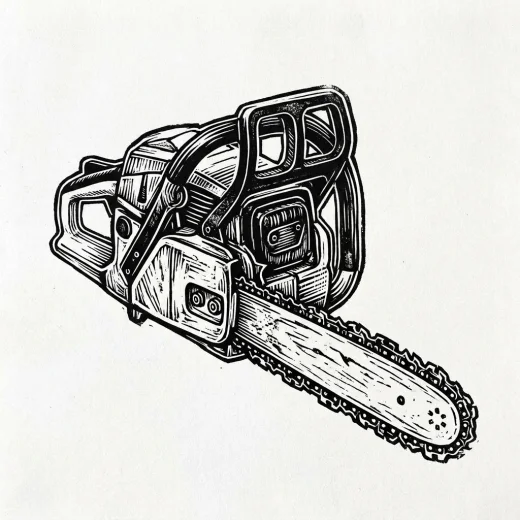
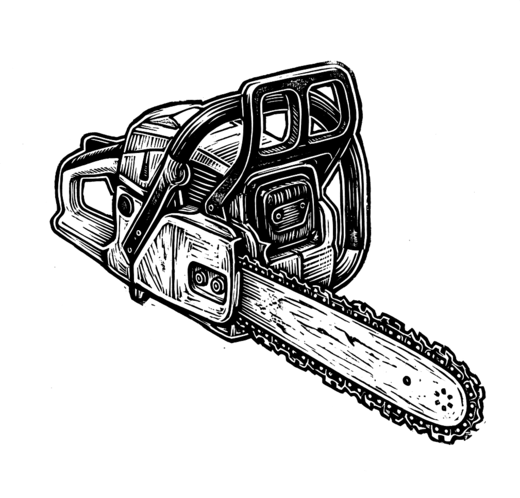
Draft Saw #17: transparent chainsaw that inverts in dark mode; The sed-rs saw

Changed region(s): [[0.0923, 0.1205, 0.9538, 0.9036], [0.9231, 0.994, 0.9538, 1.0]]

diff --git a/_drafts/saw-sed-rs-xtl-blender.md b/_drafts/saw-sed-rs-xtl-blender.md
@@ -33,9 +33,10 @@ repo_urls:
      5100; WIP), console-3D (fb79c47: IBM 1053, 2741, 5471 on shared Selectric helpers; TRS-80 to be added, per Mike). Mike's plan: four APLs in sw-apl, ca. '68 1130 APL with a 1053 console, a 2741 console for the '68 APL\360 demo,
      a 5100 for the '75 5100 demo, and a TRS-80 / IBM 5471 for a future APL-80 demo. Date: today is Sunday 11/01; -0800 since
      12:00 is after the 2 a.m. change (the publish script restamps 00:15 with the right offset). Lead image: Mike's
-     block-3d-chainsaw.jpg (Dropbox), monochrome, no-invert. -->
+     block-3d-chainsaw.jpg (Dropbox), paper made transparent, inverts
+     in dark mode (Mike asked, 2026-11-01). -->
 
-<img src="{{ '/assets/images/posts/block-3d-chainsaw.webp' | relative_url }}" class="post-marker no-invert" alt="" style="width: 205px;">
+<img src="{{ '/assets/images/posts/block-3d-chainsaw.webp' | relative_url }}" class="post-marker" alt="" style="width: 205px;">
 
 Two saws this week, one small and one large. The small one is sed-rs, my portable `sed` in Rust, which got a list of requests from being used in earnest. The large one is 3D: modeling real machines with X_eTaL and Blender, to get good enough at it for a museum.
 
@@ -57,7 +58,7 @@ Two saws this week, one small and one large. The small one is sed-rs, my portabl
 
 </div>
 
-## The sed saw
+## The sed-rs saw
 
 I wrote [sed-rs](https://github.com/sw-cli-tools/sed-rs) because the Mac's BSD `sed` and GNU `sed` on Linux do not agree, and I wanted one that behaves the same on both. Using it to edit reva-fork's files produced a [list of asks](https://github.com/softwarewrighter/reva-fork/blob/dev/docs/sed-rs-asks.md), each with the case that hit it:
 
